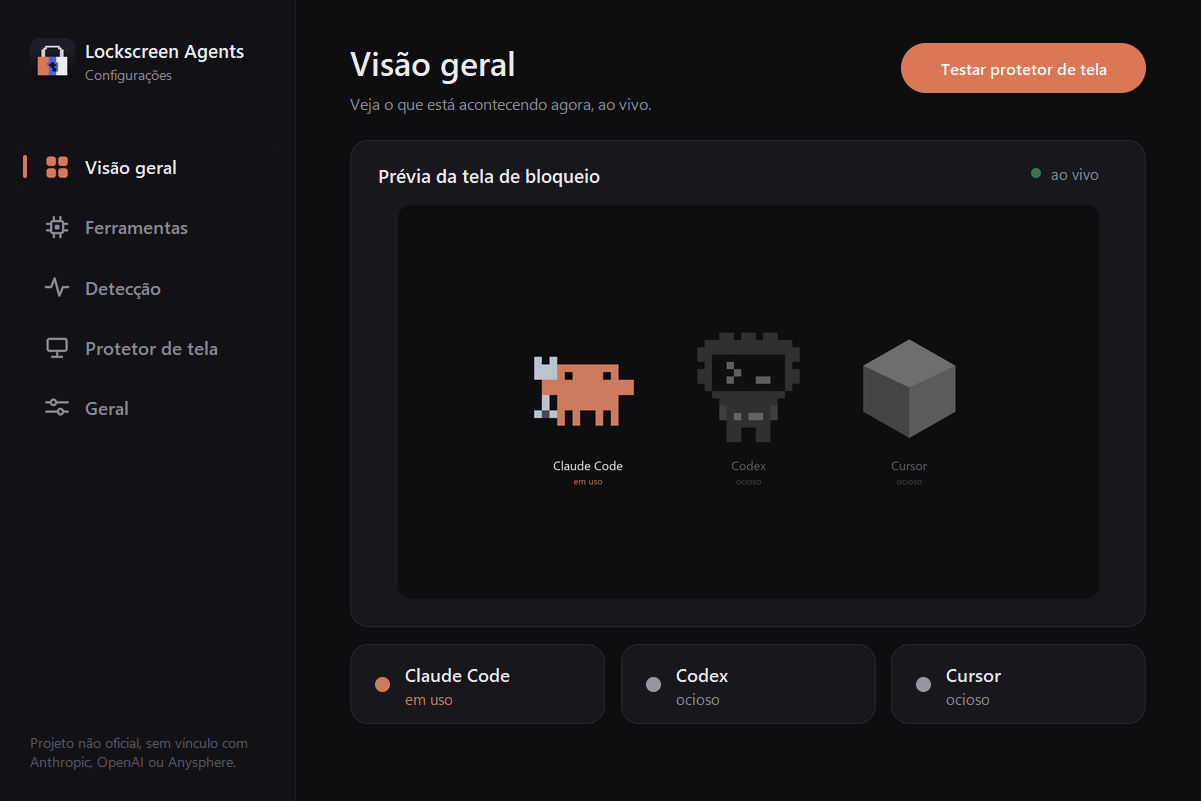
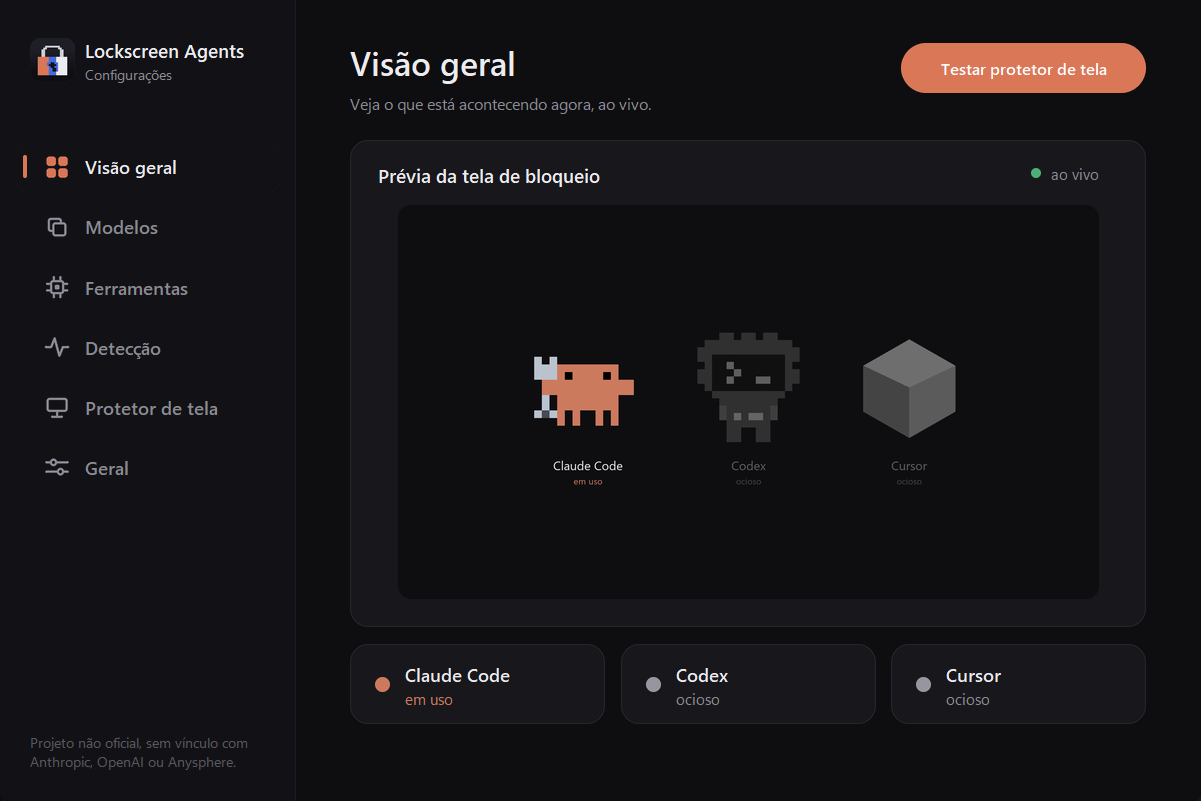
Adiciona a página Modelos com os visuais "em breve"
- templates.py: registro dos modelos (visuais) da tela, com instruções
  para lançar um novo; só "mascotes" está disponível por enquanto.
- settings.py: nova chave "template", que só aceita modelos disponíveis.
- settings_ui.py: página Modelos com miniaturas, selos "Em uso" e "Em
  breve", aviso ao clicar em modelo futuro e botão para sugerir modelo.
- i18n.py: textos da página em português e inglês.
- install.py e README atualizados, com a captura da nova página.

diff --git a/settings_ui.py b/settings_ui.py
@@ -18,6 +18,7 @@ import threading
 import time
 import traceback
 import tkinter as tk
+import webbrowser
 from ctypes import wintypes
 from pathlib import Path
 from tkinter import font as tkfont
@@ -26,6 +27,7 @@ from PIL import Image, ImageDraw, ImageTk
 
 import autostart
 import settings
+import templates
 from i18n import duration, t
 from render import ACCENT as TOOL_ACCENT
 from logo import logo
@@ -56,6 +58,7 @@ SS = 4                     # supersampling dos desenhos
 S = 1.0                    # escala de DPI (definida ao abrir a janela)
 
 LOG = settings.OUT_DIR / "settings_ui.log"
+REPO_URL = "https://github.com/andrrc/Lockscreen-Agents"
 
 
 def px(v):
@@ -175,6 +178,9 @@ def icon(name, size, color):
             d.line([(8 * u, 20.4 * u), (16 * u, 20.4 * u)], fill=c, width=lw)
             dot(8, 20.4, lw / 2 / u)
             dot(16, 20.4, lw / 2 / u)
+        elif name == "layers":
+            rr(4, 4, 16, 16, 2.6, outline=c)
+            rr(8, 8, 20, 20, 2.6, fill=SIDE + (255,), outline=c)
         elif name == "sliders":
             for y, kx in ((8, 9), (16, 15)):
                 d.line([(3 * u, y * u), (21 * u, y * u)], fill=c, width=lw)
@@ -307,14 +313,15 @@ class Card:
     R = 14
 
     def __init__(self, g, x, y, w, h):
-        self.g, self.t = g, 0.0
+        self.g, self.t, self.active = g, 0.0, False  # active: borda de destaque (item selecionado)
         self.w, self.h = px(w), px(h)
         self.x0, self.y0 = px(x), px(y)
         self.item = g.img(x, y, self._image())
 
     def _image(self):
         k = q(self.t, 8)
-        return rrect(self.w, self.h, px(self.R), mix(CARD, CARD_HOVER, k), mix(BORDER, BORDER_HOVER, k))
+        border = mix(ACC, ACC_HOVER, k) if self.active else mix(BORDER, BORDER_HOVER, k)
+        return rrect(self.w, self.h, px(self.R), mix(CARD, CARD_HOVER, k), border, 2 if self.active else 1)
 
     def set(self, t):
         self.t = t
@@ -583,7 +590,8 @@ class Page:
 
 
 class SettingsApp:
-    PAGES = [("overview", "nav.overview", "grid"), ("tools", "nav.tools", "chip"),
+    PAGES = [("overview", "nav.overview", "grid"), ("templates", "nav.templates", "layers"),
+             ("tools", "nav.tools", "chip"),
              ("detection", "nav.detection", "pulse"), ("saver", "nav.saver", "monitor"),
              ("general", "nav.general", "sliders")]
 
@@ -796,6 +804,40 @@ class SettingsApp:
 
             self.anim.run(f"chip_{key}", 380, step)
 
+    # -- modelos
+    def page_templates(self):
+        hg = self.header("tpl.title", "tpl.sub")
+        Button(self, hg, CX + CW - 176, 34, 176, 40, t("tpl.suggest"),
+               lambda: webbrowser.open(REPO_URL + "/issues/new"))
+        pw, ph, h = 120, 68, 88
+        for i, tpl in enumerate(templates.TEMPLATES):
+            key, ok = tpl["id"], tpl["available"]
+            y = 120 + i * (h + 10)
+            g = self.new_group()
+            card = g.card(CX, y, CW, h)
+            self.hover_cards.append(card)
+            card.active = ok and key == self.cfg["template"]
+            card.set(card.t)
+            g.img(CX + 16, y + (h - ph) / 2, self._tpl_photo(key, ok, px(pw), px(ph)))
+            tx = CX + 16 + pw + 20
+            g.text(tx, y + 18, t(f"tpl.{key}.n"), self.f["label"], TEXT if ok else MUTED)
+            g.text(tx, y + 43, t(f"tpl.{key}.d"), self.f["small"], MUTED if ok else DIM, width=270)
+            label = t("tpl.active") if card.active else ("" if ok else t("tpl.soon"))
+            if label:
+                bw, bh = int(self.f["small"].measure(label) / S) + 30, 28
+                bx, by = CX + CW - 22 - bw, y + (h - bh) / 2
+                g.img(bx, by, rrect(px(bw), px(bh), px(bh) // 2, ACC if card.active else (30, 30, 37),
+                                    None if card.active else (56, 56, 66)))
+                g.text(bx + bw / 2, by + bh / 2, label, self.f["small"],
+                       (255, 255, 255) if card.active else MUTED, anchor="center")
+            g.target(CX, y, CW, h, TemplateHit(self, key, ok))
+
+    def _tpl_photo(self, key, ok, w, h):
+        cache = self.__dict__.setdefault("tpl_photos", {})
+        if (key, w, h) not in cache:
+            cache[(key, w, h)] = ImageTk.PhotoImage(template_preview(key, ok, w, h))
+        return cache[(key, w, h)]
+
     # -- ferramentas
     def page_tools(self):
         self.header("tools.title", "tools.sub")
@@ -950,7 +992,7 @@ class SettingsApp:
             subprocess.Popen([sys.executable, str(script), "/s"], cwd=str(script.parent))
 
     # ---- aviso (toast)
-    def toast(self, text, warn=False):
+    def toast(self, text, warn=False, info=False):
         c = self.c
         if self.toast_job:
             self.root.after_cancel(self.toast_job)
@@ -959,7 +1001,7 @@ class SettingsApp:
         w, h = mw, px(38)
         x = px(W) - px(36) - w
         y_end = px(H) - px(30) - h
-        col = RED if warn else GREEN
+        col = RED if warn else (ACC if info else GREEN)
         bg = c.create_image(x, px(H) + px(10), image=rrect(w, h, h // 2, (30, 30, 37), (56, 56, 66)),
                             anchor="nw", tags="toast")
         dot = c.create_image(x + px(16), px(H) + px(10) + (h - px(10)) // 2, image=circle(px(10), col),
@@ -1107,6 +1149,82 @@ class SettingsApp:
         except tk.TclError:
             return
         self.root.after(70, self.pulse)
+
+
+class TemplateHit:
+    """Clique em um modelo: seleciona se ja existe, senao avisa que esta em breve."""
+
+    def __init__(self, app, key, available):
+        self.app, self.key, self.available = app, key, available
+
+    def enter(self):
+        pass
+
+    def leave(self):
+        pass
+
+    def press(self, _x, _y):
+        if not self.available:
+            self.app.toast(t("tpl.soon_toast"), info=True)
+        elif self.key != self.app.cfg["template"]:
+            self.app.set_value("template", self.key)
+            self.app.relang()  # redesenha a pagina com o novo modelo marcado
+
+
+_tpl_cache = {}
+
+
+def concept_preview(kind, w, h):
+    """Desenhos de conceito dos modelos futuros (miniatura 16:9). Para um modelo novo, acrescente um ramo."""
+    ss = 2
+    W2, H2 = w * ss, h * ss
+    img = Image.new("RGB", (W2, H2), BG)
+    d = ImageDraw.Draw(img)
+    cols = [ACC, TOOL_ACCENT["codex"], TOOL_ACCENT["cursor"]]
+    if kind == "minimal":
+        for i, c in enumerate(cols):
+            cx, cy, r = W2 * (0.25 + 0.25 * i), H2 * 0.44, H2 * 0.085
+            d.ellipse([cx - r, cy - r, cx + r, cy + r], fill=c)
+            d.rounded_rectangle([cx - W2 * 0.07, H2 * 0.64, cx + W2 * 0.07, H2 * 0.67], radius=H2 * 0.02,
+                                fill=(70, 70, 80))
+    elif kind == "terminal":
+        widths = [0.50, 0.34, 0.58, 0.28, 0.0]
+        for i, wd in enumerate(widths):
+            y = H2 * (0.17 + i * 0.15)
+            x = W2 * 0.10
+            d.line([(x, y - H2 * 0.03), (x + W2 * 0.03, y), (x, y + H2 * 0.03)], fill=cols[0], width=max(2, ss))
+            if wd:
+                d.rounded_rectangle([x + W2 * 0.07, y - H2 * 0.025, x + W2 * (0.07 + wd), y + H2 * 0.025],
+                                    radius=H2 * 0.02, fill=cols[0] if i == 0 else (84, 84, 96))
+            else:
+                d.rectangle([x + W2 * 0.07, y - H2 * 0.04, x + W2 * 0.10, y + H2 * 0.04], fill=cols[0])
+    elif kind == "panel":
+        for i, (c, fill) in enumerate(zip(cols, (0.78, 0.44, 0.22))):
+            y = H2 * (0.26 + i * 0.22)
+            d.rounded_rectangle([W2 * 0.08, y - H2 * 0.025, W2 * 0.14, y + H2 * 0.025], radius=H2 * 0.02, fill=c)
+            d.rounded_rectangle([W2 * 0.20, y - H2 * 0.04, W2 * 0.90, y + H2 * 0.04], radius=H2 * 0.04,
+                                fill=(36, 36, 44))
+            d.rounded_rectangle([W2 * 0.20, y - H2 * 0.04, W2 * (0.20 + 0.70 * fill), y + H2 * 0.04],
+                                radius=H2 * 0.04, fill=c)
+    return img.resize((w, h), Image.LANCZOS)
+
+
+def template_preview(key, available, w, h):
+    """Miniatura do modelo, com cantos arredondados (esmaecida se ainda nao existe)."""
+    if (key, available, w, h) not in _tpl_cache:
+        if key == "mascots":
+            full = render({k: "working" for k in settings.TOOLS})
+            img = full.crop((240, 160, 1680, 970)).resize((w, h), Image.LANCZOS)  # recorte 16:9 nos mascotes
+        else:
+            img = concept_preview(key, w, h)
+        if not available:
+            img = Image.blend(img, Image.new("RGB", img.size, BG), 0.45)
+        img = img.convert("RGBA")
+        mask = Image.new("L", (w * 3, h * 3), 0)
+        ImageDraw.Draw(mask).rounded_rectangle([0, 0, w * 3 - 1, h * 3 - 1], radius=px(8) * 3, fill=255)
+        img.putalpha(mask.resize((w, h), Image.LANCZOS))
+        _tpl_cache[(key, available, w, h)] = img
+    return _tpl_cache[(key, available, w, h)]
 
 
 class _ChromeGroup:

diff --git a/i18n.py b/i18n.py
@@ -24,6 +24,7 @@ STRINGS = {
         "nav.overview": "Visão geral",
         "nav.tools": "Ferramentas",
         "nav.detection": "Detecção",
+        "nav.templates": "Modelos",
         "nav.saver": "Protetor de tela",
         "nav.general": "Geral",
         "ui.saved": "Salvo",
@@ -35,6 +36,15 @@ STRINGS = {
         "ov.live": "ao vivo",
         "ov.test": "Testar protetor de tela",
         "ov.off": "desligado",
+        # modelos
+        "tpl.title": "Modelos",
+        "tpl.sub": "O visual da tela de bloqueio e do protetor. Novos modelos estão a caminho.",
+        "tpl.mascots.n": "Mascotes", "tpl.mascots.d": "Os mascotes em pixel-art andam quando a ferramenta está em uso.",
+        "tpl.minimal.n": "Minimalista", "tpl.minimal.d": "Só pontos de cor e nomes, para uma tela bem limpa.",
+        "tpl.terminal.n": "Terminal", "tpl.terminal.d": "Estilo linha de comando, com o estado de cada ferramenta em texto.",
+        "tpl.panel.n": "Painel", "tpl.panel.d": "Barras de atividade das ferramentas, como um painel de controle.",
+        "tpl.active": "Em uso", "tpl.soon": "Em breve", "tpl.soon_toast": "Este modelo chega em breve",
+        "tpl.suggest": "Sugerir modelo",
         # ferramentas
         "tools.title": "Ferramentas",
         "tools.sub": "Escolha quais assistentes aparecem nos mascotes.",
@@ -97,6 +107,7 @@ STRINGS = {
         "nav.overview": "Overview",
         "nav.tools": "Tools",
         "nav.detection": "Detection",
+        "nav.templates": "Templates",
         "nav.saver": "Screensaver",
         "nav.general": "General",
         "ui.saved": "Saved",
@@ -107,6 +118,14 @@ STRINGS = {
         "ov.live": "live",
         "ov.test": "Test screensaver",
         "ov.off": "off",
+        "tpl.title": "Templates",
+        "tpl.sub": "The look of the lock screen and screensaver. New templates are on the way.",
+        "tpl.mascots.n": "Mascots", "tpl.mascots.d": "Pixel-art mascots that walk when the tool is in use.",
+        "tpl.minimal.n": "Minimal", "tpl.minimal.d": "Just color dots and names, for a very clean screen.",
+        "tpl.terminal.n": "Terminal", "tpl.terminal.d": "Command-line style, with each tool's state as text.",
+        "tpl.panel.n": "Dashboard", "tpl.panel.d": "Activity bars for each tool, like a control panel.",
+        "tpl.active": "In use", "tpl.soon": "Coming soon", "tpl.soon_toast": "This template is coming soon",
+        "tpl.suggest": "Suggest a template",
         "tools.title": "Tools",
         "tools.sub": "Choose which assistants show up as mascots.",
         "tools.claude.desc": "Terminal and desktop app. Watches your user's .claude folder.",

diff --git a/settings.py b/settings.py
@@ -9,6 +9,8 @@ import os
 import time
 from pathlib import Path
 
+import templates
+
 APP_NAME = "LockscreenAgents"
 OUT_DIR = Path(os.environ.get("LOCALAPPDATA", Path.home())) / APP_NAME
 SETTINGS = OUT_DIR / "settings.json"
@@ -17,6 +19,7 @@ TOOLS = ("claude", "codex", "cursor")
 
 DEFAULTS = {
     "lang": "auto",            # auto | pt | en
+    "template": templates.DEFAULT,  # modelo visual (veja templates.py)
     "tools": {"claude": True, "codex": True, "cursor": True},
     "active_window": 180,      # s sem atividade nos arquivos até deixar de estar "em uso"
     "follow_focus": True,      # janela da ferramenta em foco + você ativo conta como "em uso"
@@ -51,6 +54,8 @@ def _clean(raw):
                             cfg["tools"][name] = bool(v[name])
             elif k == "lang":
                 cfg["lang"] = v if v in ("auto", "pt", "en") else "auto"
+            elif k == "template":  # só aceita modelos já disponíveis
+                cfg["template"] = v if v in templates.available_ids() else templates.DEFAULT
             elif isinstance(default, bool):
                 cfg[k] = bool(v)
             elif isinstance(default, int):

diff --git a/templates.py b/templates.py
@@ -1,0 +1,26 @@
+"""Modelos (visuais) da tela de bloqueio e do protetor de tela.
+
+Hoje só existe o modelo "mascotes". Os outros aparecem na janela de configurações como
+"em breve". Para lançar um modelo novo:
+
+  1. troque `available` para True aqui;
+  2. escreva a função que desenha o modelo (como `render.render` faz para os mascotes) e
+     faça `tray.py` e `saver.py` escolherem o desenho pela chave `template` das configurações;
+  3. confira os textos `tpl.<id>.n` (nome) e `tpl.<id>.d` (descrição) em `i18n.py`.
+
+Para listar um modelo futuro como "em breve", basta acrescentar uma linha aqui, os dois textos
+em `i18n.py` e (opcional) um desenho em `settings_ui.concept_preview`.
+"""
+
+DEFAULT = "mascots"
+
+TEMPLATES = [
+    {"id": "mascots", "available": True},
+    {"id": "minimal", "available": False},
+    {"id": "terminal", "available": False},
+    {"id": "panel", "available": False},
+]
+
+
+def available_ids():
+    return [t["id"] for t in TEMPLATES if t["available"]]

diff --git a/install.py b/install.py
@@ -17,7 +17,7 @@ APP_NAME = "LockscreenAgents"
 BASE = Path(os.environ["LOCALAPPDATA"]) / APP_NAME
 APP_DIR = BASE / "app"
 FILES = ["autostart.py", "detector.py", "i18n.py", "lockscreen.py", "logo.py", "render.py", "saver.py",
-         "settings.py", "settings_ui.py", "tray.py"]
+         "settings.py", "settings_ui.py", "templates.py", "tray.py"]
 
 
 def pythonw():

diff --git a/README.md b/README.md
@@ -32,10 +32,13 @@ Clique duas vezes no ícone da bandeja (ou use **Configurações…** no menu). 
 
 ![Janela de configurações: visão geral com prévia ao vivo](docs/settings-overview.png)
 
+- **Modelos**: o visual da tela. Hoje existe o modelo **Mascotes**; os próximos aparecem como “em breve” (e há um botão para sugerir o seu).
 - **Ferramentas**: escolha quais mascotes aparecem (Claude Code, Codex, Cursor).
 - **Detecção**: tempo até ficar ocioso, tolerância para "fechado" e se a janela em foco conta como em uso.
 - **Protetor de tela**: ligar, abrir após N minutos, bloquear o PC ao fechar.
 - **Geral**: idioma (automático, português ou inglês), iniciar com o Windows, abrir a pasta de dados e restaurar os padrões.
+
+![Janela de configurações: modelos](docs/settings-templates.png)
 
 ![Janela de configurações: detecção](docs/settings-detection.png)
 
@@ -95,6 +98,7 @@ Regras: arquivo mudou nos últimos 3 minutos ou janela da ferramenta em foco (co
 | `tray.py` | app da bandeja, junta tudo |
 | `settings_ui.py` | janela de configurações (Tk com controles desenhados à mão) |
 | `settings.py` | lê e grava o `settings.json`, com validação |
+| `templates.py` | lista dos modelos (visuais), incluindo os “em breve” |
 | `i18n.py` | textos em português e inglês |
 | `autostart.py` | início automático com o Windows |
 | `install.py` | instala, liga o autostart e remove |
@@ -126,7 +130,7 @@ Mascots on the Windows lock screen and screensaver that show at a glance which A
 
 - **Lock screen**: renders an image with each tool's state and sets it as your lock screen whenever the state changes. Press `Win + L` to see it.
 - **Animated screensaver**: after a few idle minutes, a fullscreen scene with the animated mascots. Any key or mouse move closes it.
-- **Settings window**: modern and animated, with a live lock screen preview. Pick which tools show up, tune the detection timings, configure the screensaver and switch language (Portuguese/English). Everything saves instantly.
+- **Settings window**: modern and animated, with a live lock screen preview. Browse the templates (more are coming soon), pick which tools show up, tune the detection timings, configure the screensaver and switch language (Portuguese/English). Everything saves instantly.
 - **Tray icon**: double-click to open the settings; the menu also pauses, refreshes the lock screen and tests the screensaver.
 - Starts with Windows.
 
